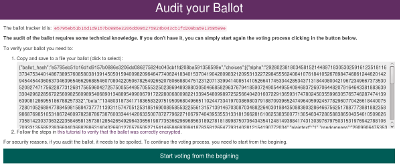
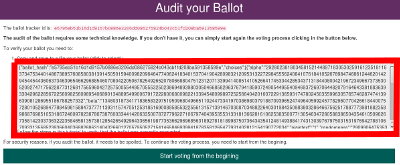
modify screen capt, enhace help texts

Changed region(s): [[0.03, 0.3333, 1.0, 0.8485]]

diff --git a/src/interface.cpp b/src/interface.cpp
@@ -11,6 +11,27 @@ bool MyApp::OnInit()
     return true;
 }
 
+
+void MyFrame::OnBallotClick(wxMouseEvent& event)
+{
+  string ballot = ballot_text->GetValue().ToStdString();
+  if(0 == ballot.compare(string("Paste your ballot here")) )
+  {
+    ballot_text->Clear();
+  }
+}
+
+
+void MyFrame::OnBallotLostFocus(wxFocusEvent& e)
+{
+  string ballot = ballot_text->GetValue().ToStdString();
+  if(0 == ballot.length() )
+  {
+    ballot_text->WriteText(string("Paste your ballot here"));
+  }
+}
+
+
 MyFrame::MyFrame(const wxString& title, const wxPoint& pos, const wxSize& size)
         : wxFrame(NULL, wxID_ANY, title, pos, size)
 {    
@@ -19,11 +40,14 @@ MyFrame::MyFrame(const wxString& title, const wxPoint& pos, const wxSize& size)
    
    wxBoxSizer *leftSizer = new wxBoxSizer( wxVERTICAL );
    
-   ballot_text = new wxTextCtrl(this, -1, wxT(""), wxDefaultPosition, wxSize(220,220) , wxTE_MULTILINE);
+   ballot_text = new wxTextCtrl(this, -1, wxT(""), wxDefaultPosition, wxSize(220,250) , wxTE_MULTILINE);
    
    ballot_text->SetEditable(true);
    
-   *ballot_text << wxString(string("Paste Your Ballot Here"));
+   *ballot_text << wxString(string("Paste your ballot here"));
+   
+   ballot_text->Connect(wxEVT_LEFT_UP, wxMouseEventHandler(MyFrame::OnBallotClick), NULL, this );
+   ballot_text->Connect(wxEVT_KILL_FOCUS, wxFocusEventHandler(MyFrame::OnBallotLostFocus), NULL, this );
    
 
    leftSizer->Add( ballot_text,
@@ -37,8 +61,9 @@ MyFrame::MyFrame(const wxString& title, const wxPoint& pos, const wxSize& size)
    
    wxBoxSizer *rightSizer = new wxBoxSizer( wxVERTICAL );
    
-   rightSizer->Add(new wxStaticText( this, -1, wxT("This a help text"), wxDefaultPosition, wxSize(220,20)),
-    wxSizerFlags(0).Top().Border(wxALL, 5) );
+   rightSizer->Add(new wxStaticText( this, -1, 
+    wxT("Get the ballot from the voting booth, which looks like in the picture below. Copy the full text from the voting booth and paste it on the right white box that says 'Paste your ballot here'"), 
+    wxDefaultPosition, wxSize(400,50)), wxSizerFlags(0).Top().Border(wxALL, 5) );
    
    wxBitmap bmp( wxT("screen.png"), wxBITMAP_TYPE_ANY );
    bmp.SetHeight(165);

diff --git a/src/interface.h b/src/interface.h
@@ -26,6 +26,8 @@ private:
   wxStaticText* state_text;
   void OnVerify(wxCommandEvent& event);
   void OnClose(wxCloseEvent& event);
+  void OnBallotClick(wxMouseEvent& event );
+  void OnBallotLostFocus(wxFocusEvent& e);
   wxDECLARE_EVENT_TABLE();
 };
 
